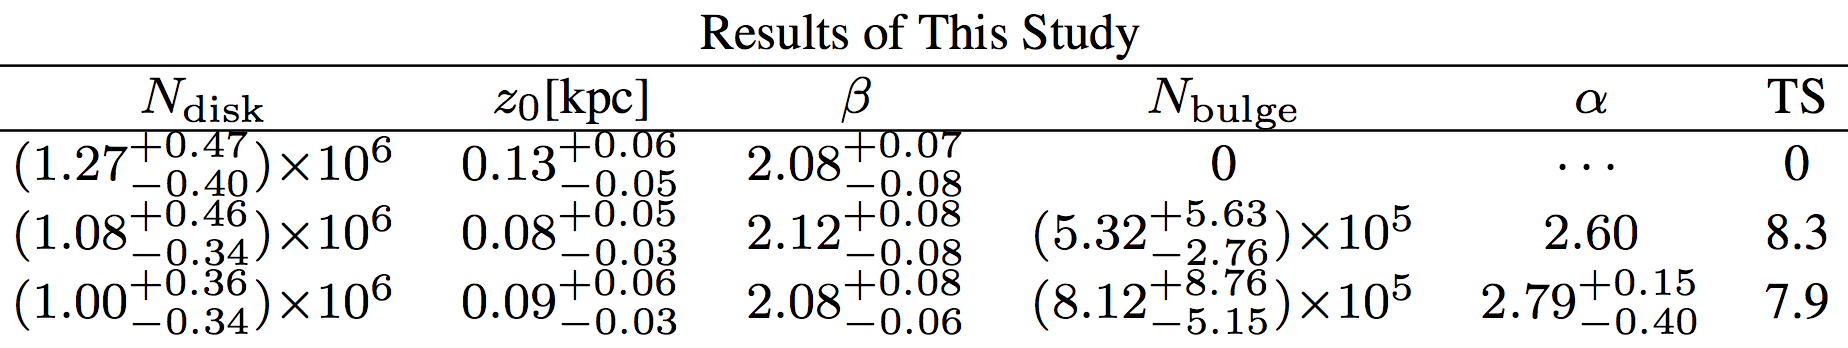
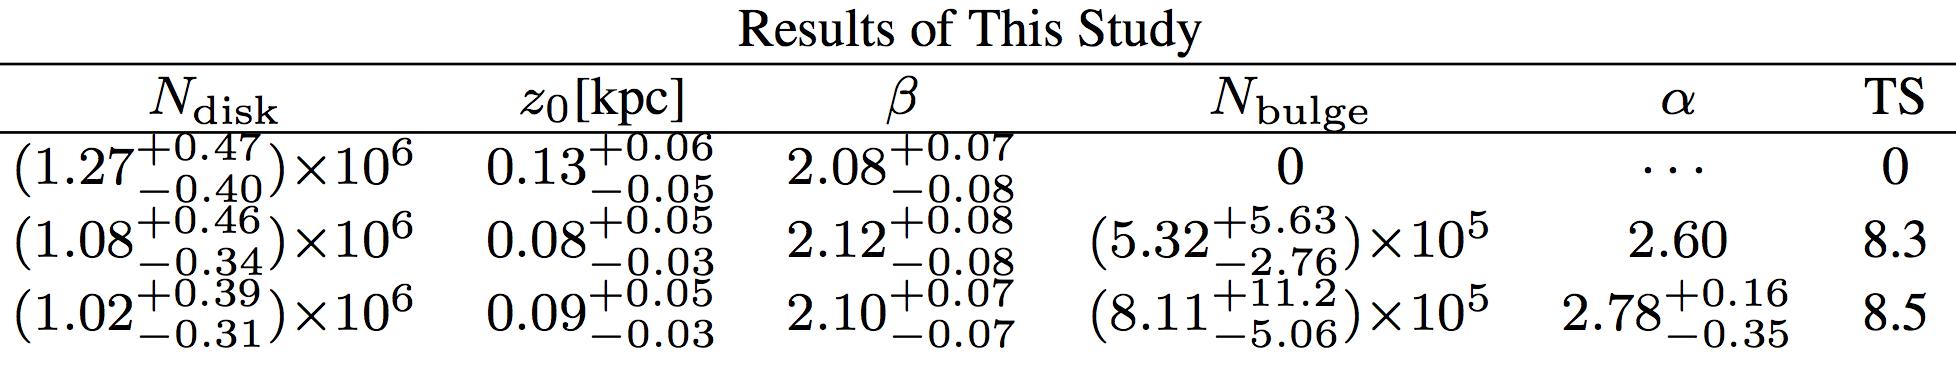
Updated alpha runs

diff --git a/README.md b/README.md
@@ -53,5 +53,3 @@ Our runs indicate instead the following best fit parameters:
 ![alt text](https://github.com/bsafdi/GCE-2FIG/blob/master/notebooks/plots/Table_Us.png "Our best fit parameters")
 
 In particular our returned TS values, whilst still in favor of a bulge population, are more modest. Further we favor different values for both z0 and beta. The derivation of these parameters is shown in the notebooks outlined below.
-
-**NB:** the floated alpha results are still converging, explaining the lower TS this will be updated soon.
